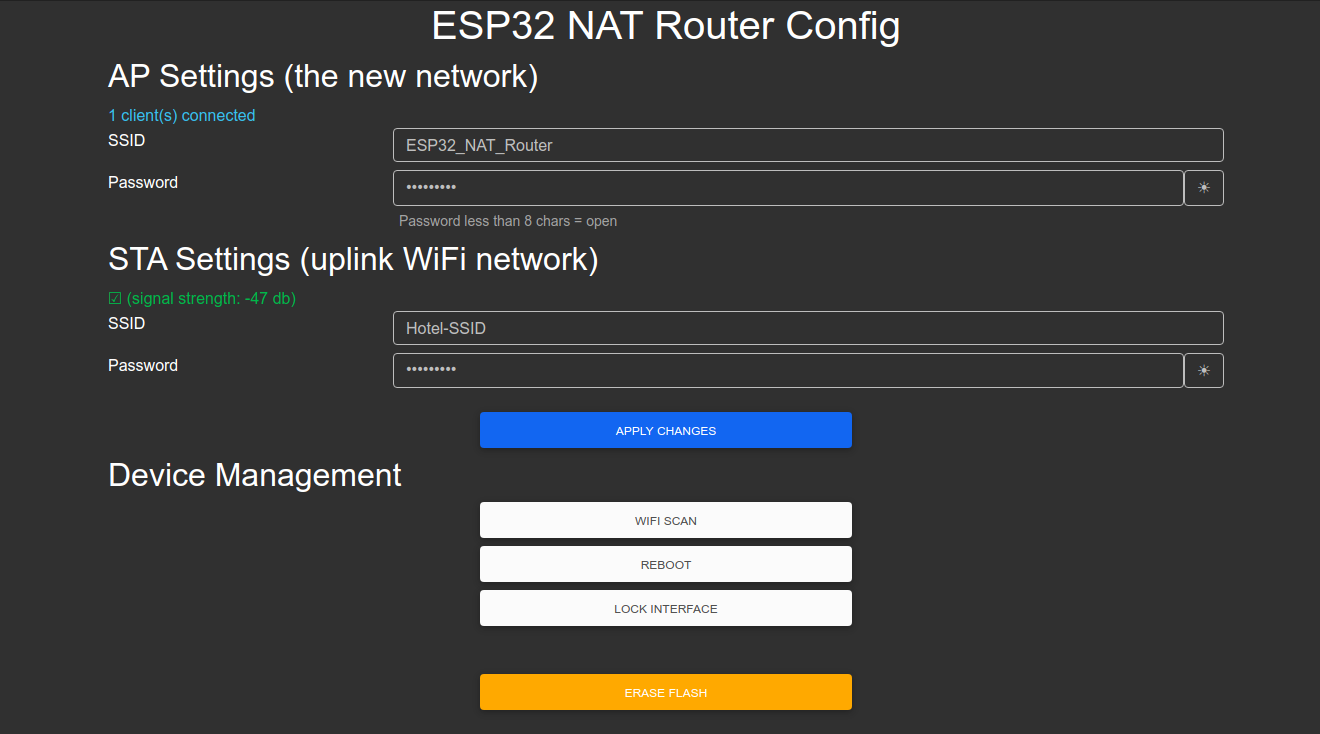
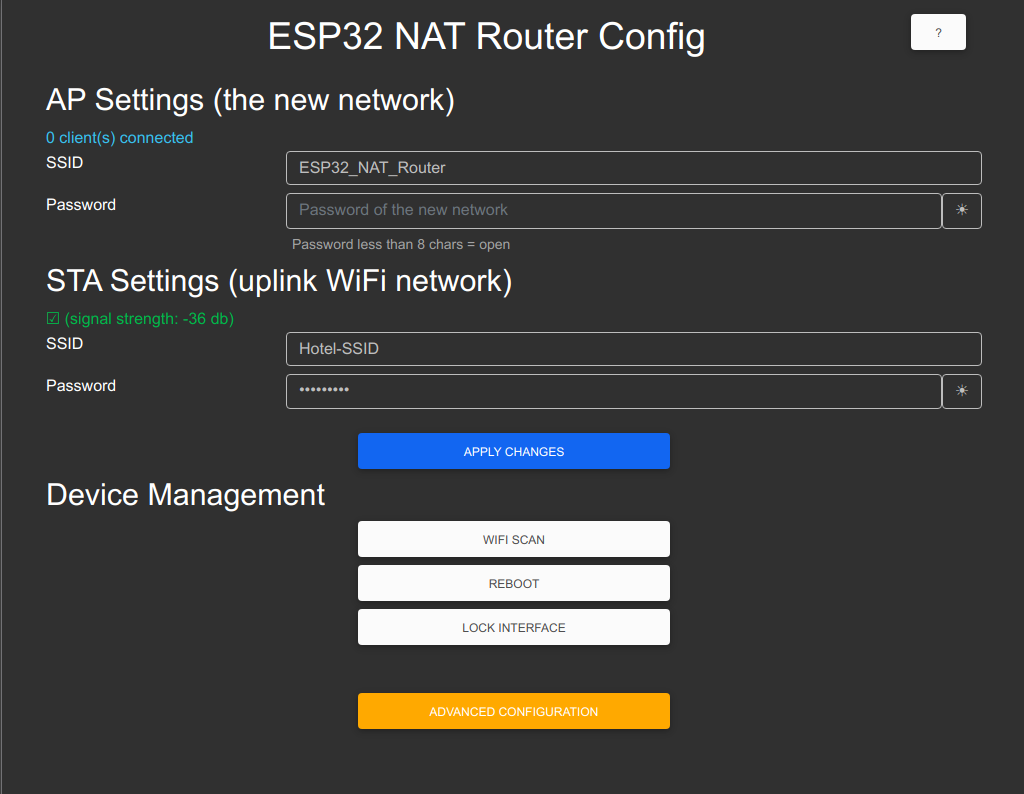
Updated documentation, closes #23

diff --git a/README.md b/README.md
@@ -9,10 +9,11 @@ This is an extension of the great work of [martin-ger's ESP32 NAT Router-project
 ## Additional features
 - Scanning for APs (s. [limitations](#wifi-scanning-limitation))
 - Improved and stabilized UI
-- Resetting the device in UI and with Pin/ Button
-- 
+- Resetting the device in UI and with Pin/Button
+- Keep connection alive on networks with forced disconnect
 - Secure frontend by password or complete disabling
 - Show connected state and quality in UI
+- Disable the on board indicator LED 
 
 ## First Boot
 After first boot the ESP32 NAT Router will offer a WiFi network with an open AP and the ssid "ESP32_NAT_Router". Configuration can either be done via a simple web interface or via the serial console. 
@@ -29,138 +30,10 @@ Now you can reconnect and reload the page and change the "Soft AP Settings". Cli
 ## Screenshots
 
 ![image](docs/scan.png)
+![image](docs/advanced.png)
 ![image](docs/reset.png)
 ![image](docs/lock.png)
 ![image](docs/unlock.png)
-
-## Interpreting the on board LED
-
-If the ESP32 is connected to the upstream AP then the on board LED should be on, otherwise off.
-If there are devices connected to the ESP32 then the on board LED will keep blinking as many times as the number of devices connected.
-
-For example:
-
-One device connected to the ESP32, and the ESP32 is connected to upstream: 
-
-`*****.*****`
-
-Two devices are connected to the ESP32, but the ESP32 is not connected to upstream: 
-
-`....*.*....`
-
-# Command Line Interface
-
-For configuration you have to use a serial console (Putty or GtkTerm with 115200 bps).
-Use the "set_sta" and the "set_ap" command to configure the WiFi settings. Changes are stored persistently in NVS and are applied after next restart. Use "show" to display the current config. The NVS namespace for the parameters is "esp32_nat"
-
-Enter the `help` command get a full list of all available commands:
-```
-help 
-  Print the list of registered commands
-
-free 
-  Get the current size of free heap memory
-
-heap 
-  Get minimum size of free heap memory that was available during program execu
-  tion
-
-version 
-  Get version of chip and SDK
-
-restart 
-  Software reset of the chip
-
-deep_sleep  [-t <t>] [--io=<n>] [--io_level=<0|1>]
-  Enter deep sleep mode. Two wakeup modes are supported: timer and GPIO. If no
-  wakeup option is specified, will sleep indefinitely.
-  -t, --time=<t>  Wake up time, ms
-      --io=<n>  If specified, wakeup using GPIO with given number
-  --io_level=<0|1>  GPIO level to trigger wakeup
-
-light_sleep  [-t <t>] [--io=<n>]... [--io_level=<0|1>]...
-  Enter light sleep mode. Two wakeup modes are supported: timer and GPIO. Mult
-  iple GPIO pins can be specified using pairs of 'io' and 'io_level' arguments
-  . Will also wake up on UART input.
-  -t, --time=<t>  Wake up time, ms
-      --io=<n>  If specified, wakeup using GPIO with given number
-  --io_level=<0|1>  GPIO level to trigger wakeup
-
-tasks 
-  Get information about running tasks
-
-nvs_set  <key> <type> -v <value>
-  Set key-value pair in selected namespace.
-Examples:
- nvs_set VarName i32 -v 
-  123 
- nvs_set VarName str -v YourString 
- nvs_set VarName blob -v 0123456789abcdef 
-         <key>  key of the value to be set
-        <type>  type can be: i8, u8, i16, u16 i32, u32 i64, u64, str, blob
-  -v, --value=<value>  value to be stored
-
-nvs_get  <key> <type>
-  Get key-value pair from selected namespace. 
-Example: nvs_get VarName i32
-         <key>  key of the value to be read
-        <type>  type can be: i8, u8, i16, u16 i32, u32 i64, u64, str, blob
-
-nvs_erase  <key>
-  Erase key-value pair from current namespace
-         <key>  key of the value to be erased
-
-nvs_namespace  <namespace>
-  Set current namespace
-   <namespace>  namespace of the partition to be selected
-
-nvs_list  <partition> [-n <namespace>] [-t <type>]
-  List stored key-value pairs stored in NVS.Namespace and type can be specified
-  to print only those key-value pairs.
-  
-Following command list variables stored inside 'nvs' partition, under namespace 'storage' with type uint32_t
-  Example: nvs_list nvs -n storage -t u32 
-
-   <partition>  partition name
-  -n, --namespace=<namespace>  namespace name
-  -t, --type=<type>  type can be: i8, u8, i16, u16 i32, u32 i64, u64, str, blob
-
-nvs_erase_namespace  <namespace>
-  Erases specified namespace
-   <namespace>  namespace to be erased
-
-set_sta  <ssid> <passwd>
-  Set SSID and password of the STA interface
-        <ssid>  SSID
-      <passwd>  Password
-
-set_sta_static  <ip> <subnet> <gw>
-  Set Static IP for the STA interface
-          <ip>  IP
-      <subnet>  Subnet Mask
-          <gw>  Gateway Address
-
-set_ap  <ssid> <passwd>
-  Set SSID and password of the SoftAP
-        <ssid>  SSID of AP
-      <passwd>  Password of AP
-
-set_ap_ip  <ip>
-  Set IP for the AP interface
-          <ip>  IP
-
-portmap  [add|del] [TCP|UDP] <ext_portno> <int_ip> <int_portno>
-  Add or delete a portmapping to the router
-     [add|del]  add or delete portmapping
-     [TCP|UDP]  TCP or UDP port
-  <ext_portno>  external port number
-      <int_ip>  internal IP
-  <int_portno>  internal port number
-
-show 
-  Get status and config of the router
-```
-
 
 
 ## Flashing the prebuild binaries
@@ -212,10 +85,6 @@ Check the adresses like below:
 
 see [How to setup environment and build](docs/BUILD.md)
 
-### DNS
-As soon as the ESP32 STA has learned a DNS IP from its upstream DNS server on first connect, it passes that to newly connected clients.
-Before that by default the DNS-Server which is offerd to clients connecting to the ESP32 AP is set to 1.1.1.1.
-Replace the value of the *DEFAULT_DNS* with your desired DNS-Server IP address if you want to use a different one.
 
 ## Wifi scanning limitation
 Because of technical limitations, a client can not be simultaneously conected to device and scan for Wifis. Before the scan started all the clients will be disconnected. After that the scan will start, saved in nvs and the device will reboot. After reconnecting to the device you will be able to see the scanned networks. The scan result will be deleted afterwards, but it is always possible to retry the scanning. 
@@ -224,3 +93,7 @@ Because of technical limitations, a client can not be simultaneously conected to
 
 If you have any problems, suggestions for new features feel free to ask or raise an issue. This is a spare time project, I will answer if I'm free.
 If you like my work and want to support me, you can [buy me coffee](https://www.buymeacoffee.com/dchristl) or send me a donation via [PayPal](https://bit.ly/3Gde3KN)
+
+## Advanced topics and configuration
+
+see [Advanced topics](docs/advanced.md)

diff --git a/docs/advanced.md b/docs/advanced.md
@@ -1,0 +1,145 @@
+# Advanced topics
+
+## Advanced configuration
+
+![image](advanced.png)
+
+The settings under advanced configuration are well explained in the UI. 
+
+## Resetting the device/ Erasing the flash
+
+All settings can be wiped in the UI with the "Erase Flash"-Button. If any misconfiguration leads to an unusable device you can also connect GPIO 23 to ground on startup to reset the device copmpletely. The GND- and the GPIO 23-Pin are normally direct neighbours, so you can bridge them by any metallic object, like a paper clip, knife, small wire, ... If you want to reset, you have to power off the device, bridge the GND and GPIO 23 and power on the device. After 5s with bridged connection, the device is resetted and you can remove the bridge and restart the device. If on your board is an indicator LED available, these will flash fast during this process. 
+
+## Interpreting the on board LED
+
+If the ESP32 is connected to the upstream AP then the on board LED should be on, otherwise off.
+If there are devices connected to the ESP32 then the on board LED will keep blinking as many times as the number of devices connected.
+
+For example:
+
+One device connected to the ESP32, and the ESP32 is connected to upstream: 
+
+`*****.*****`
+
+Two devices are connected to the ESP32, but the ESP32 is not connected to upstream: 
+
+`....*.*....`
+
+## Command Line Interface
+
+For configuration you have to use a serial console (Putty or GtkTerm with 115200 bps).
+Use the "set_sta" and the "set_ap" command to configure the WiFi settings. Changes are stored persistently in NVS and are applied after next restart. Use "show" to display the current config. The NVS namespace for the parameters is "esp32_nat"
+
+Enter the `help` command get a full list of all available commands:
+```
+help 
+  Print the list of registered commands
+
+free 
+  Get the current size of free heap memory
+
+heap 
+  Get minimum size of free heap memory that was available during program execu
+  tion
+
+version 
+  Get version of chip and SDK
+
+restart 
+  Software reset of the chip
+
+deep_sleep  [-t <t>] [--io=<n>] [--io_level=<0|1>]
+  Enter deep sleep mode. Two wakeup modes are supported: timer and GPIO. If no
+  wakeup option is specified, will sleep indefinitely.
+  -t, --time=<t>  Wake up time, ms
+      --io=<n>  If specified, wakeup using GPIO with given number
+  --io_level=<0|1>  GPIO level to trigger wakeup
+
+light_sleep  [-t <t>] [--io=<n>]... [--io_level=<0|1>]...
+  Enter light sleep mode. Two wakeup modes are supported: timer and GPIO. Mult
+  iple GPIO pins can be specified using pairs of 'io' and 'io_level' arguments
+  . Will also wake up on UART input.
+  -t, --time=<t>  Wake up time, ms
+      --io=<n>  If specified, wakeup using GPIO with given number
+  --io_level=<0|1>  GPIO level to trigger wakeup
+
+tasks 
+  Get information about running tasks
+
+nvs_set  <key> <type> -v <value>
+  Set key-value pair in selected namespace.
+Examples:
+ nvs_set VarName i32 -v 
+  123 
+ nvs_set VarName str -v YourString 
+ nvs_set VarName blob -v 0123456789abcdef 
+         <key>  key of the value to be set
+        <type>  type can be: i8, u8, i16, u16 i32, u32 i64, u64, str, blob
+  -v, --value=<value>  value to be stored
+
+nvs_get  <key> <type>
+  Get key-value pair from selected namespace. 
+Example: nvs_get VarName i32
+         <key>  key of the value to be read
+        <type>  type can be: i8, u8, i16, u16 i32, u32 i64, u64, str, blob
+
+nvs_erase  <key>
+  Erase key-value pair from current namespace
+         <key>  key of the value to be erased
+
+nvs_namespace  <namespace>
+  Set current namespace
+   <namespace>  namespace of the partition to be selected
+
+nvs_list  <partition> [-n <namespace>] [-t <type>]
+  List stored key-value pairs stored in NVS.Namespace and type can be specified
+  to print only those key-value pairs.
+  
+Following command list variables stored inside 'nvs' partition, under namespace 'storage' with type uint32_t
+  Example: nvs_list nvs -n storage -t u32 
+
+   <partition>  partition name
+  -n, --namespace=<namespace>  namespace name
+  -t, --type=<type>  type can be: i8, u8, i16, u16 i32, u32 i64, u64, str, blob
+
+nvs_erase_namespace  <namespace>
+  Erases specified namespace
+   <namespace>  namespace to be erased
+
+set_sta  <ssid> <passwd>
+  Set SSID and password of the STA interface
+        <ssid>  SSID
+      <passwd>  Password
+
+set_sta_static  <ip> <subnet> <gw>
+  Set Static IP for the STA interface
+          <ip>  IP
+      <subnet>  Subnet Mask
+          <gw>  Gateway Address
+
+set_ap  <ssid> <passwd>
+  Set SSID and password of the SoftAP
+        <ssid>  SSID of AP
+      <passwd>  Password of AP
+
+set_ap_ip  <ip>
+  Set IP for the AP interface
+          <ip>  IP
+
+portmap  [add|del] [TCP|UDP] <ext_portno> <int_ip> <int_portno>
+  Add or delete a portmapping to the router
+     [add|del]  add or delete portmapping
+     [TCP|UDP]  TCP or UDP port
+  <ext_portno>  external port number
+      <int_ip>  internal IP
+  <int_portno>  internal port number
+
+show 
+  Get status and config of the router
+```
+
+
+# DNS
+As soon as the ESP32 STA has learned a DNS IP from its upstream DNS server on first connect, it passes that to newly connected clients.
+Before that by default the DNS-Server which is offerd to clients connecting to the ESP32 AP is set to 1.1.1.1.
+Replace the value of the *DEFAULT_DNS* with your desired DNS-Server IP address if you want to use a different one.
